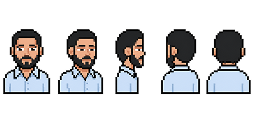
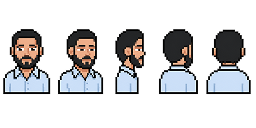
feat: Vercel Web Analytics en el layout raíz
Agrega @vercel/analytics con el componente <Analytics /> (import next) en el
body del RootLayout, según la quickstart oficial. Instalado con pnpm para
mantener el lockfile. En dev no reporta; se activa en el deploy de Vercel
(habilitar Analytics en el dashboard del proyecto).

Changed region(s): [[0.5938, 0.2188, 0.7812, 0.75]]

diff --git a/src/app/layout.tsx b/src/app/layout.tsx
@@ -1,5 +1,6 @@
 import type { Metadata, Viewport } from 'next';
 import { VT323, Handjet } from 'next/font/google';
+import { Analytics } from '@vercel/analytics/next';
 import { assetUrl, LOGOS } from '@/lib/assets';
 import './globals.css';
 
@@ -59,7 +60,11 @@ export default function RootLayout({
 }) {
   return (
     <html lang="es" className={`${vt323.variable} ${handjet.variable}`}>
-      <body>{children}</body>
+      <body>
+        {children}
+        {/* Vercel Web Analytics — pageviews y visitantes (privacy-friendly) */}
+        <Analytics />
+      </body>
     </html>
   );
 }
